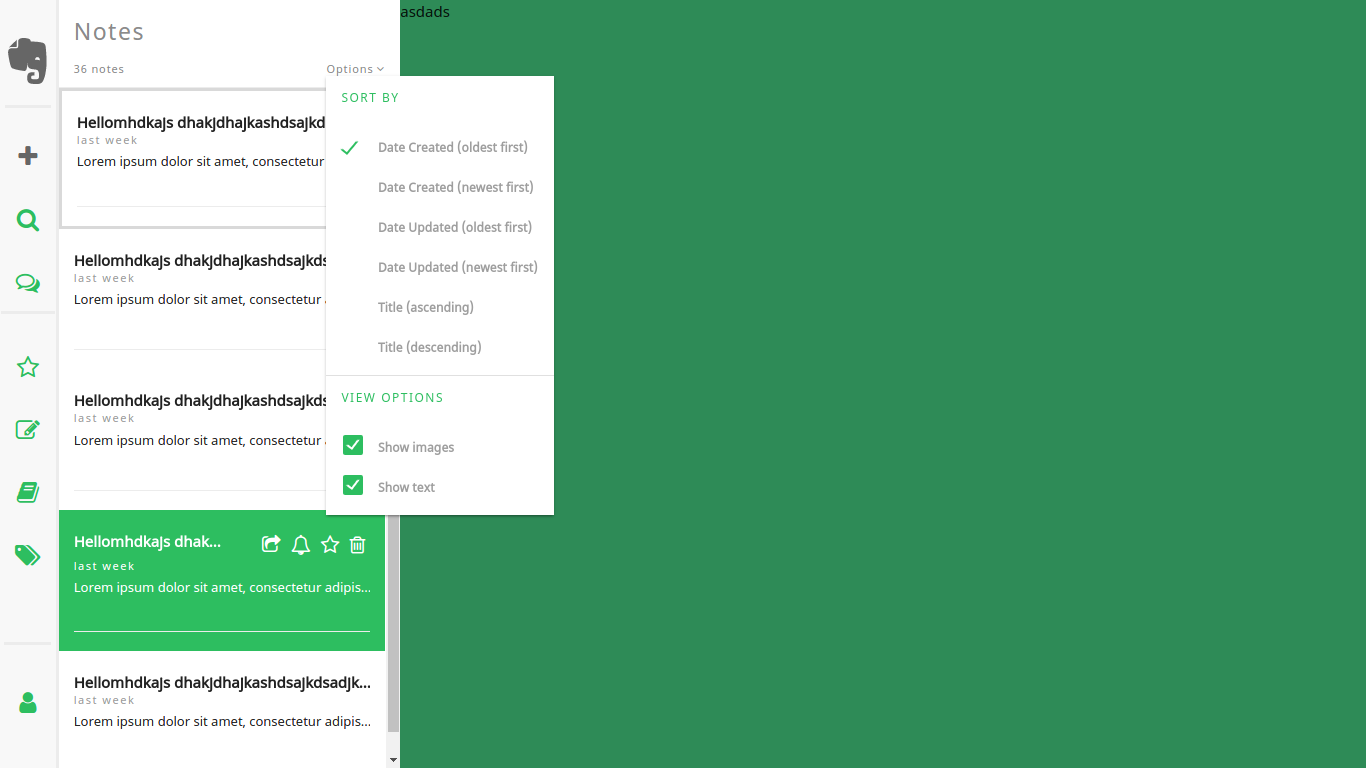
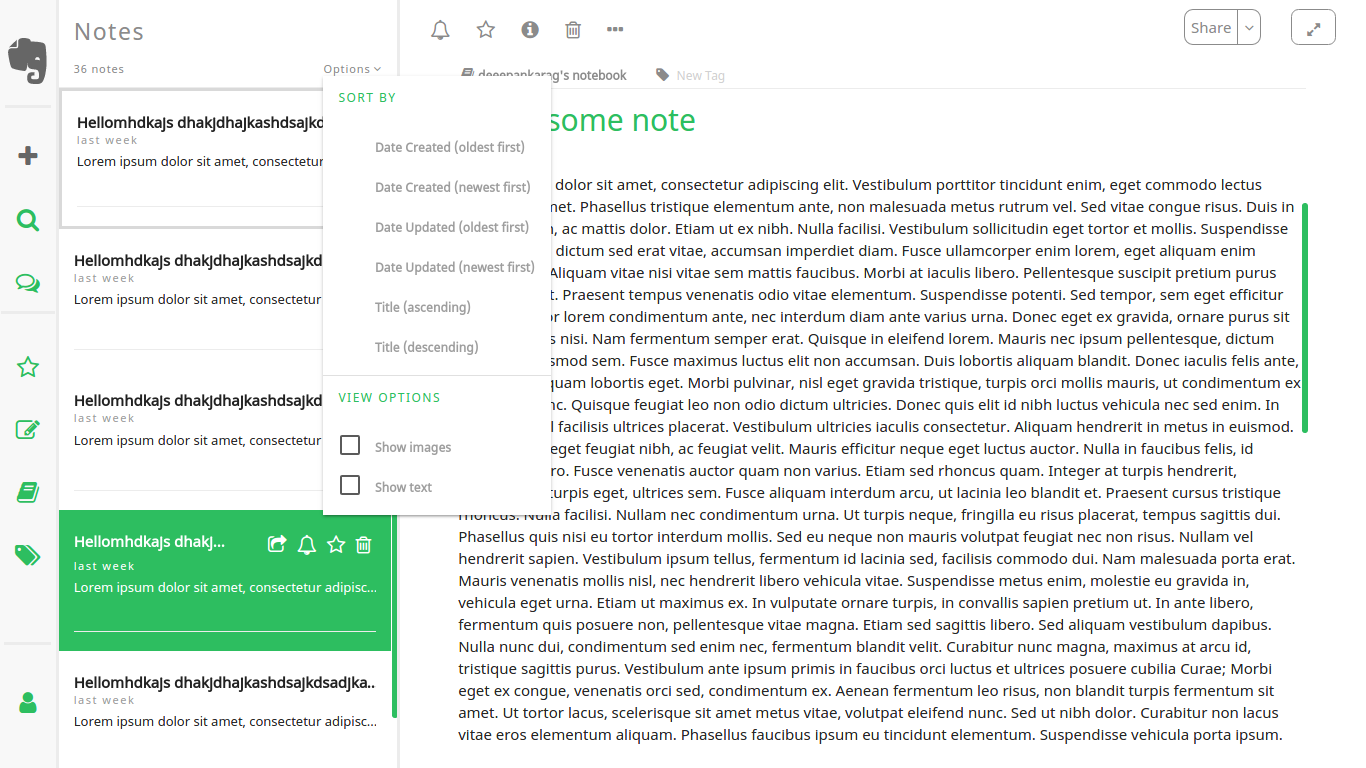
Added screenshots and updated readme

diff --git a/README.md b/README.md
@@ -7,23 +7,17 @@ Evernote for linux
 
 This is an unofficial release but have tried to make the look and feel of the application as original as possible. 
 
-Still under construction 
+Almost at the point of UI Completion 
+
 ![Evernote screenshot](https://github.com/Deepankar01/evernote-linux/blob/master/screenshots/evernote.png)
 
-If you want to have a look or contribute please send PR requests
+![Evernote screenshot2] (https://github.com/Deepankar01/evernote-linux/blob/master/screenshots/evernote2.png)
+
+
+If you want to contribute please send PR requests
 
  To build the code
 
 ```shell
-npm build
-```
-
-To run the code
-
-```shell
-npm start
-```
-To setup 
-```shell
-npm install
+cd ui && gulp
 ```
